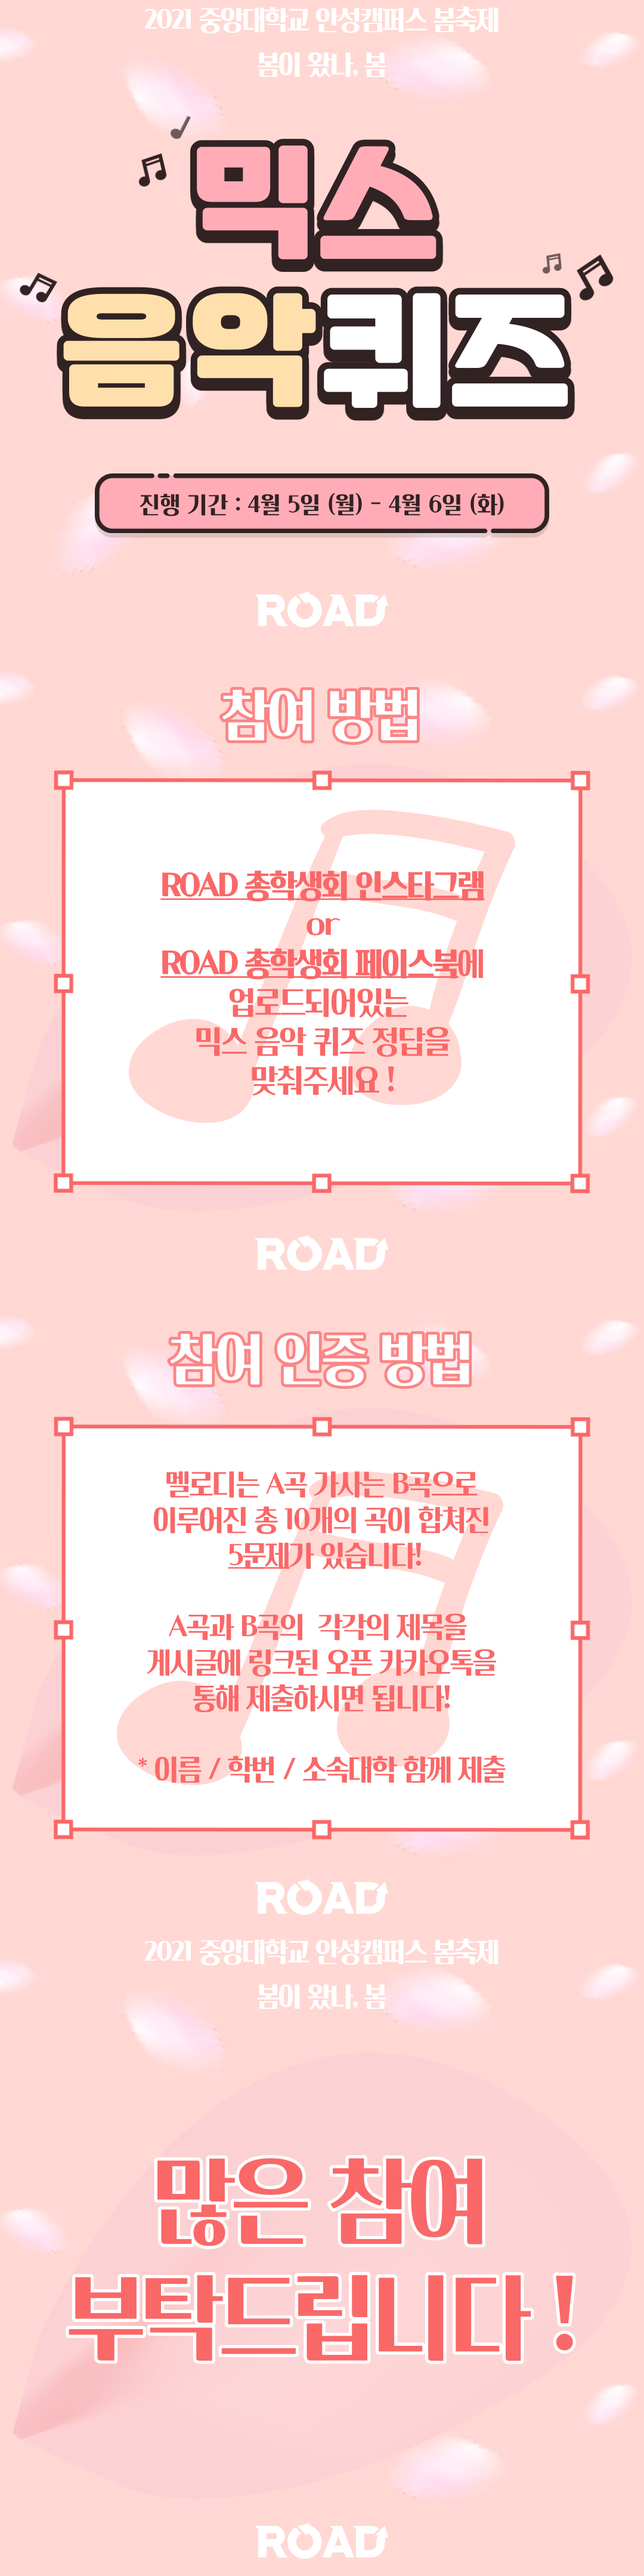
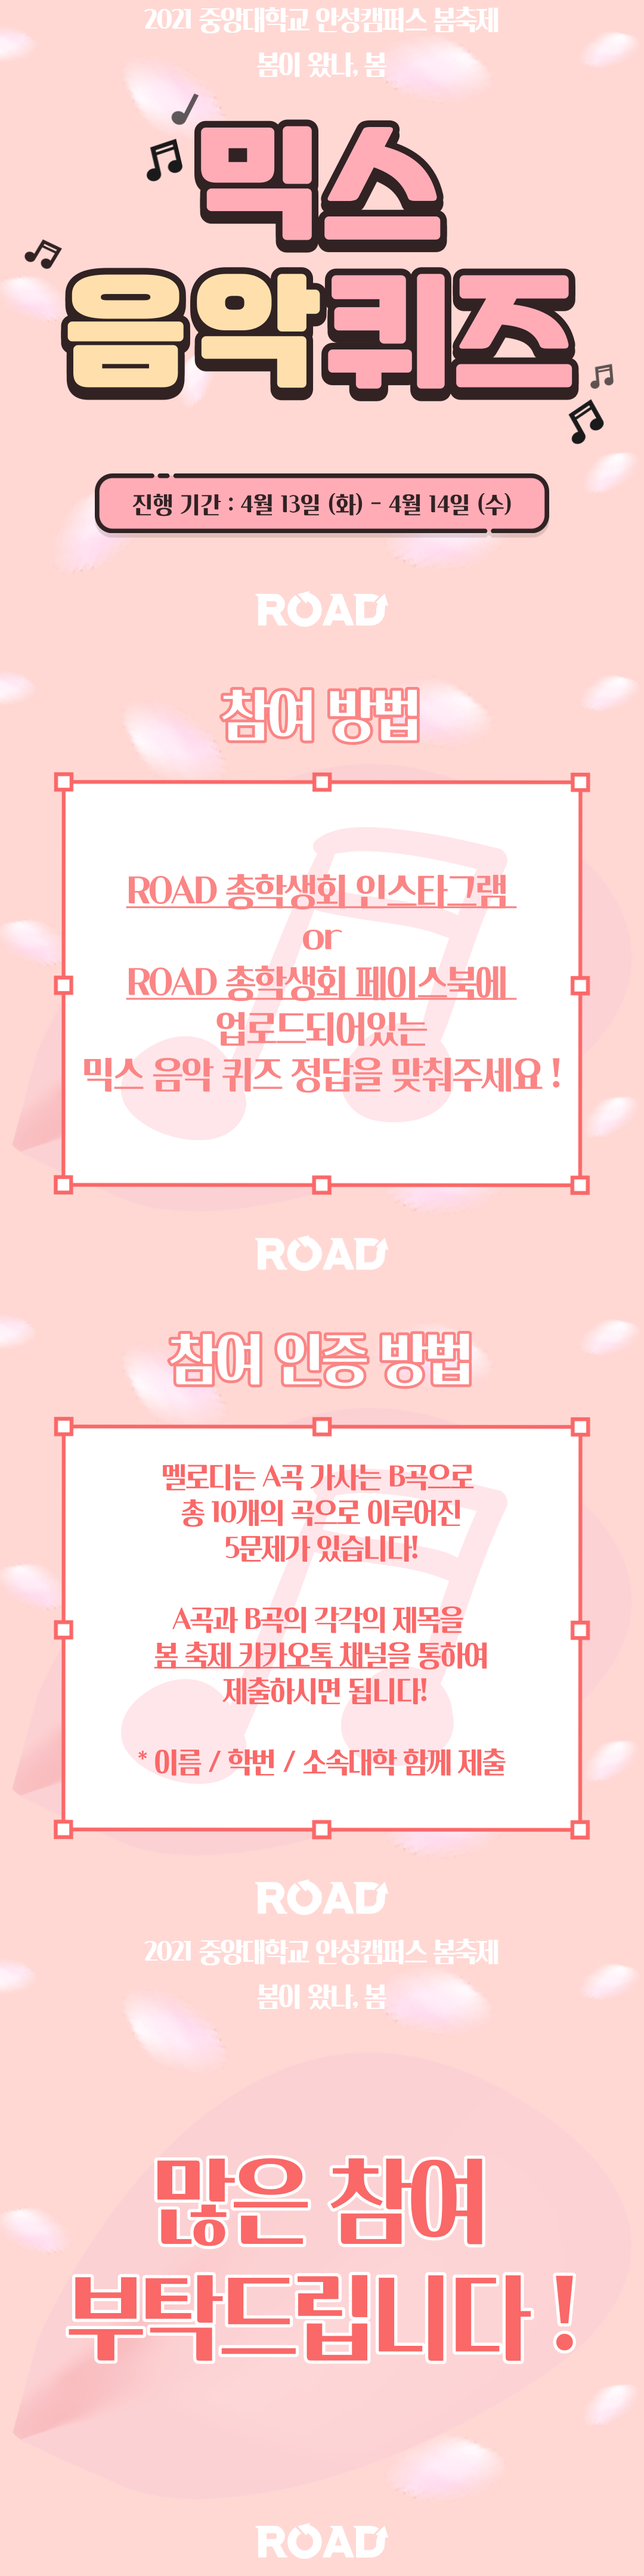
chore: update images for delayed schedule of festival

diff --git a/apps/festival/templates/festival/photo_puzzle.html b/apps/festival/templates/festival/photo_puzzle.html
@@ -6,8 +6,7 @@
 {% block content %}
 
 <div id="container__cau-image">
-  <img id="cau_image" src="{% static "images/photo_puzzle_1_50.jpg" %}" />
-  <img id="cau_image" src="{% static "images/photo_puzzle_2_50.jpg" %}" />
+  <img id="cau_image" src="{% static "images/photo_puzzle_70.jpg" %}" />
 </div>
 
 {% endblock %}

diff --git a/apps/festival/templates/festival/finding_puang.html b/apps/festival/templates/festival/finding_puang.html
@@ -6,7 +6,7 @@
 {% block content %}
 
 <div id="container__cau-image">
-  <img id="cau_image" src="{% static "images/finding_puang_50.jpg" %}" />
+  <img id="cau_image" src="{% static "images/finding_puang_70.jpg" %}" />
 </div>
 
 {% endblock %}

diff --git a/apps/festival/templates/festival/mixmusic_quiz.html b/apps/festival/templates/festival/mixmusic_quiz.html
@@ -6,7 +6,7 @@
 {% block content %}
 
 <div id="container__cau-image">
-  <img id="cau_image" src="{% static "images/mixmusic_quiz_85.jpg" %}" />
+  <img id="cau_image" src="{% static "images/mixmusic_quiz_70.jpg" %}" />
 </div>
 
 {% endblock %}
